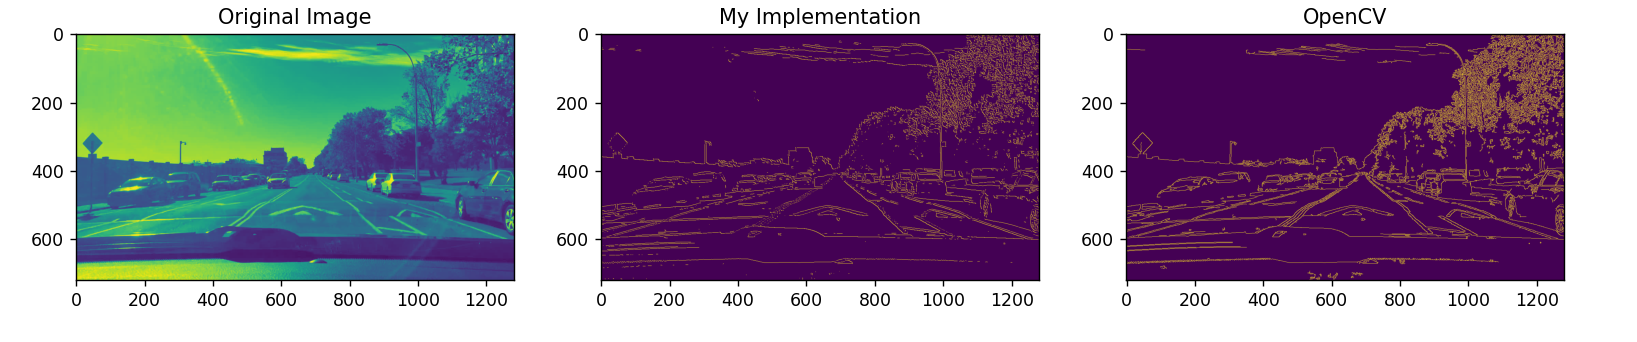
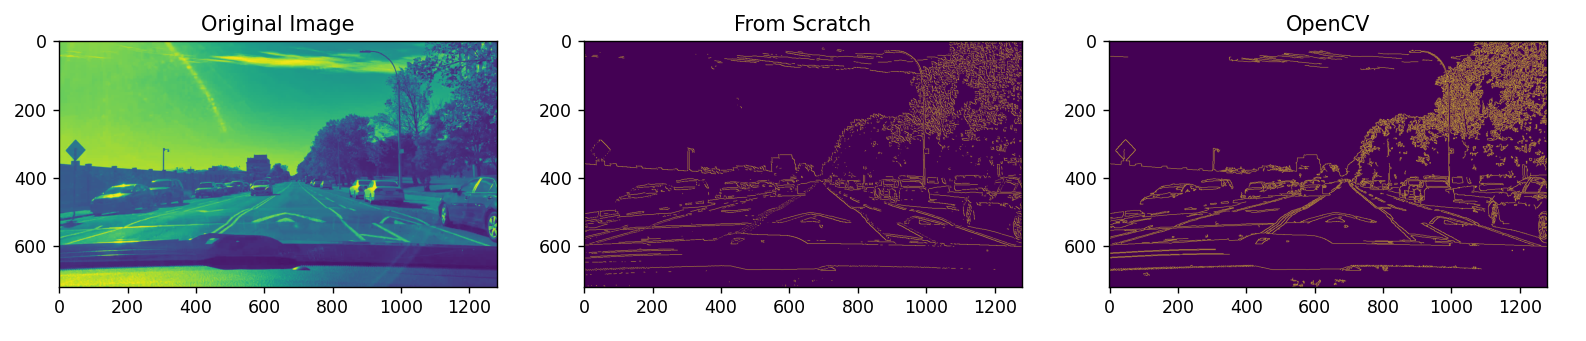
update to readme

Changed region(s): [[0.0, 0.0293, 0.9887, 0.9384]]

diff --git a/main.py b/main.py
@@ -106,18 +106,10 @@ def link_edges(strong_edges, weak_edges):
 
 def canny(img, kernel_size = 5, sigma=1.4, high = 0.5, low=0.02):
     gaussian = gaussian_kernel(kernel_size, sigma)
-    print("debug 109")
     smoothed_image = conv(img, gaussian)
-    print("debug 111")
-
     G, theta = gradient(smoothed_image)
-    print("debug 114")
-
     nms_img = non_maximum_suppression(G, theta)
-    print("debug 117")
-
     strong_edges, weak_edges = double_thresholding(nms_img, high, low)
-    print("debug 120")
 
     return link_edges(strong_edges, weak_edges)
 
@@ -148,16 +140,14 @@ fig, axs = plt.subplots(1, 3)
 
 # Step 1: Canny Edge Detection
 edges = canny(img, kernel_size=5, sigma=1.4, high=5, low=0.2)
-print("debug 143")
 axs[0].set_title('Original Image')
 axs[0].imshow(img)
-axs[1].set_title('My Implementation')
+axs[1].set_title('From Scratch')
 axs[1].imshow(edges)
 
 
 # Getting edges using OpenCV
 cv2edges = cv2.Canny(img2, 50, 150)
-print("debug 1")
 axs[2].set_title('OpenCV')
 axs[2].imshow(cv2edges)
 
